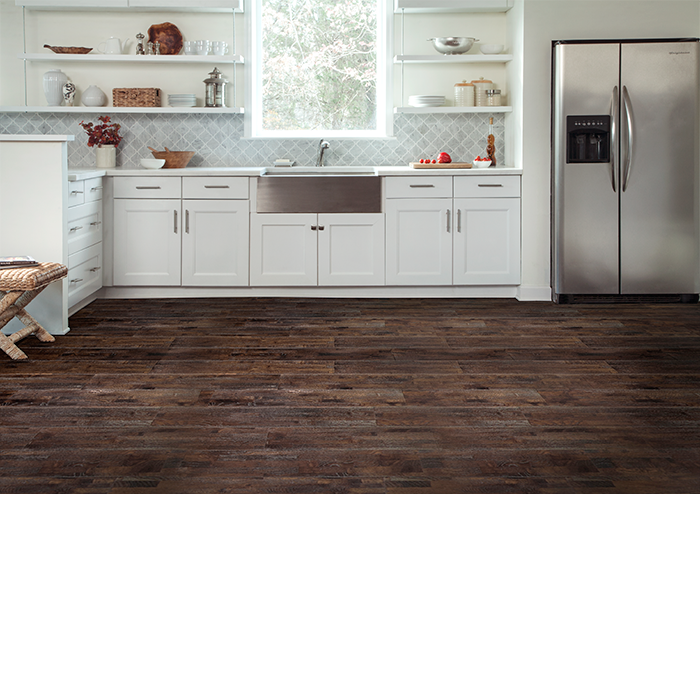
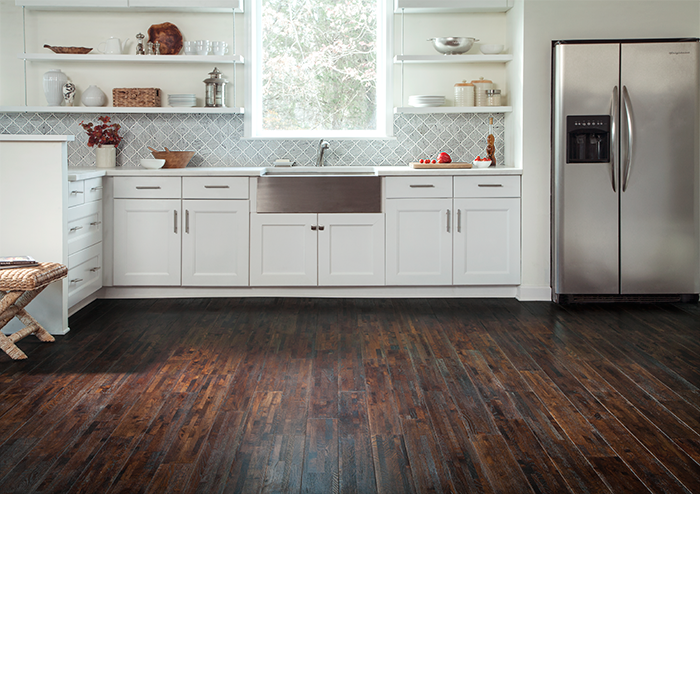
added assets, update code related to those assets

Changed region(s): [[0.0, 0.42, 1.0, 0.72], [0.99, 0.45, 1.0, 0.48], [0.6, 0.21, 0.63, 0.24]]

diff --git a/index.html b/index.html
@@ -81,33 +81,30 @@
                                 <br>
                                 <div class="options-container">
                                     <div data-target="o3" data-color="1" class="item-color-option">
-                                        <img src="public/images/Backsplash/Backsplash1black.png">
+                                        <img src="public/images/backsplash/bs1b.png">
                                     </div>
                                     
                                     <div data-target="o3" data-color="2" class="item-color-option">
-                                        <img src="public/images/Backsplash/Backsplash1white.png">
+                                        <img src="public/images/backsplash/bs1w.png">
                                     </div>
                                     
                                     <div data-target="o3" data-color="3" class="item-color-option">
-                                        <img src="public/images/Backsplash/Backsplash2black.png">
+                                        <img src="public/images/backsplash/bs2b.png">
                                     </div>
                                     <div data-target="o3" data-color="4" class="item-color-option">
-                                        <img src="public/images/Backsplash/Backsplash2white.png">
+                                        <img src="public/images/backsplash/bs2w.png">
                                     </div>
                                     <div data-target="o3" data-color="5" class="item-color-option">
-                                        <img src="public/images/Backsplash/Backsplash3blackj.png">
+                                        <img src="public/images/backsplash/bs3b.png">
                                     </div>
                                     <div data-target="o3" data-color="6" class="item-color-option">
-                                        <img src="public/images/Backsplash/Backsplash3white.png">
+                                        <img src="public/images/backsplash/bs3w.png">
                                     </div>
                                     <div data-target="o3" data-color="7" class="item-color-option">
-                                        <img src="public/images/Backsplash/Backsplash4.png">
+                                        <img src="public/images/backsplash/bsOriginalB.png">
                                     </div>
-                                    <div data-target="o3" data-color="8" class="item-color-option">
-                                        <img src="public/images/Backsplash/BacksplashOriginalblack.png">
-                                    </div>
-                                    <div data-target="o3" data-color="9" class="item-color-option active">
-                                        <img src="public/images/Backsplash/BacksplashOriginalwhite.png">
+                                    <div data-target="o3" data-color="8" class="item-color-option active">
+                                        <img src="public/images/backsplash/bsOriginalW.png">
                                     </div>
                                 </div>
                             </div>
@@ -117,17 +114,17 @@
                                 <br>
                                 <div class="options-container">
                                     <div data-target="o2" data-color="1" class="item-color-option">
-                                        <img src="public/images/Cabinet/CabinetBlack.png">
+                                        <img src="public/images/cabinet/cabinet1Black.png">
                                     </div>
 
                                     <div data-target="o2" data-color="2" class="item-color-option">
-                                        <img src="public/images/Cabinet/CabinetEspresso.png">
+                                        <img src="public/images/cabinet/cabinet2Espresso.png">
                                     </div>
                                     <div data-target="o2" data-color="3" class="item-color-option">
-                                        <img src="public/images/Cabinet/CabinetRed.png">
+                                        <img src="public/images/cabinet/Cabinet3Red.png">
                                     </div>
                                     <div data-target="o2" data-color="4" class="item-color-option active">
-                                        <img src="public/images/Cabinet/CabinetOriginal.png">
+                                        <img src="public/images/cabinet/cabinet4White.png">
                                     </div>
                                  
                                 </div>
@@ -137,19 +134,19 @@
                             <div id="flooring" class="tab-pane fade">
                                 <br>
                                 <div class="options-container">
+                                    <div data-target="o1" data-color="1" class="item-color-option">
+                                        <img src="public/images/floor/floor1.png">
+                                    </div>
+                                
                                     <div data-target="o1" data-color="2" class="item-color-option">
-                                        <img src="public/images/Floor/lightbrown.png">
+                                        <img src="public/images/floor/floor2.png">
                                     </div>
                                 
-                                    <div data-target="o1" data-color="4" class="item-color-option">
-                                        <img src="public/images/Floor/gray.png">
+                                    <div data-target="o1" data-color="3" class="item-color-option">
+                                        <img src="public/images/floor/floor3.png">
                                     </div>
-                                
-                                    <div data-target="o1" data-color="6" class="item-color-option">
-                                        <img src="public/images/Floor/brown.png">
-                                    </div>
-                                    <div data-target="o1" data-color="8" class="item-color-option active">
-                                        <img src="public/images/Floor/floor_original.png">
+                                    <div data-target="o1" data-color="4" class="item-color-option active">
+                                        <img src="public/images/floor/floor_original.png">
                                     </div>
                                 </div>
                             </div>

diff --git a/public/css/kitchen_demo.css b/public/css/kitchen_demo.css
@@ -119,22 +119,22 @@ img#product {
 
 .item-color-option {    
     display: inline-block;
-    height: 50px;
-    width: 50px;  
+    height: 55px;
+    width: 55px;  
     margin: 5px;
     cursor: pointer;
     border: 2px solid #fff;
-    -moz-border-radius: 50px;
-    -webkit-border-radius: 50px;
-    border-radius: 50px;
+    -moz-border-radius: 55px;
+    -webkit-border-radius: 55px;
+    border-radius: 55px;
 }
 
 .item-color-option img {  
     width: 100%;
     height: auto;
-    -moz-border-radius: 50px;
-    -webkit-border-radius: 50px;
-    border-radius: 50px;
+    -moz-border-radius: 55px;
+    -webkit-border-radius: 55px;
+    border-radius: 55px;
 }
 
 .item-color-option.active {
